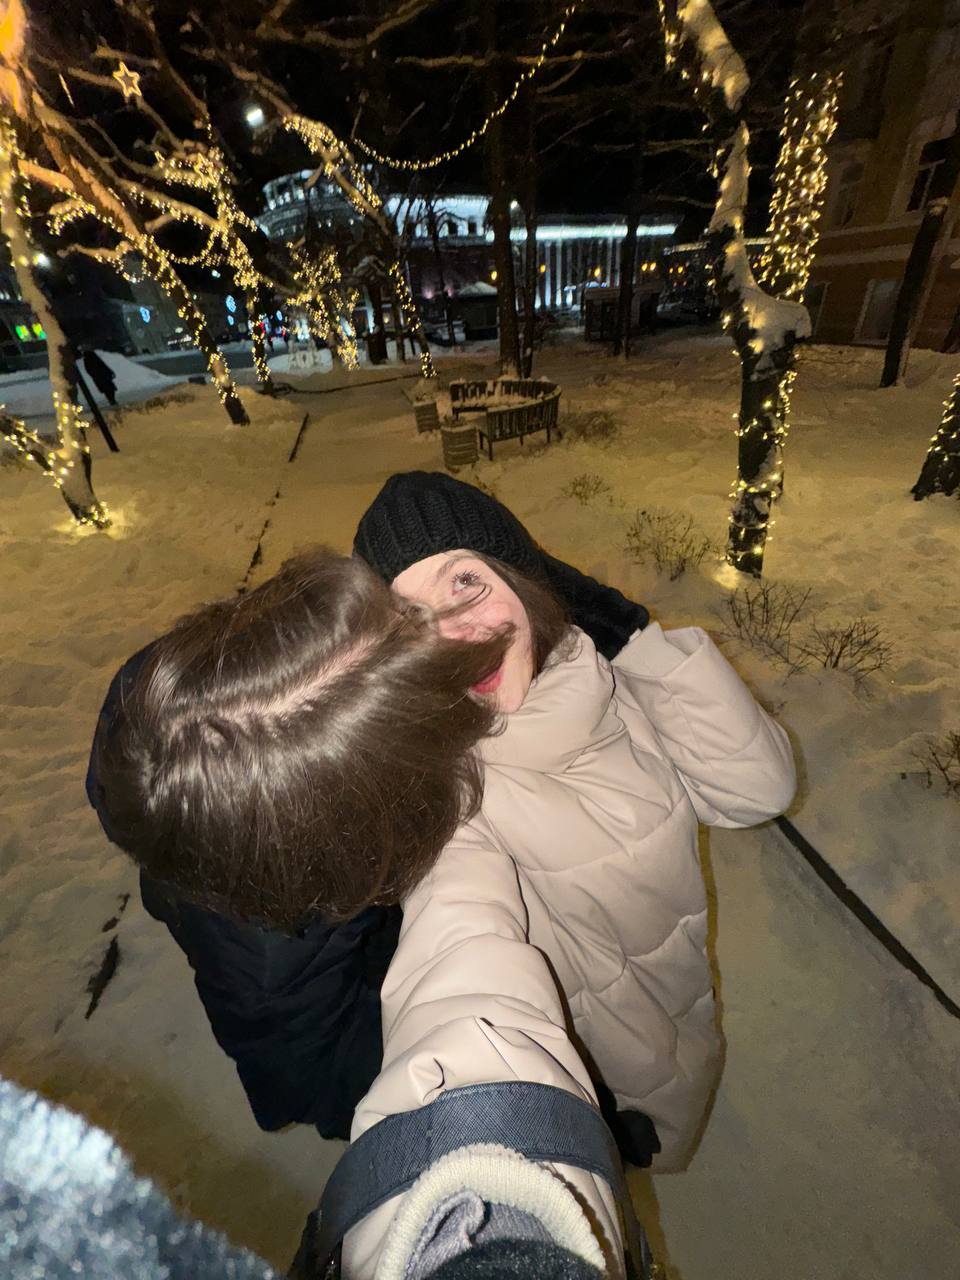
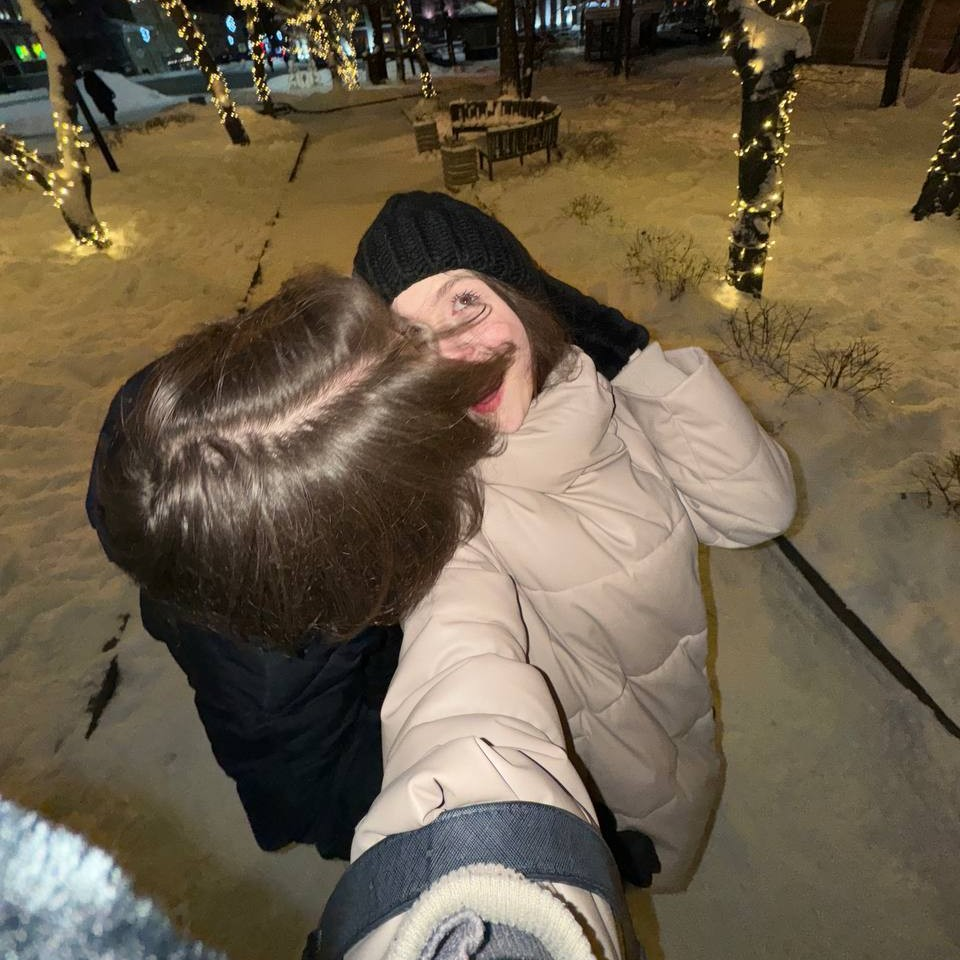
add slight transition to the timeline, edit photo formats

diff --git a/styles.css b/styles.css
@@ -664,3 +664,44 @@ body {
     margin-top: 40px;
     text-align: center;
 }
+
+.scroll-prompt {
+    text-align: center;
+    margin: 50px 0;
+    opacity: 0;
+    transform: translateY(20px);
+    transition: all 0.5s ease-out;
+}
+
+.scroll-prompt.visible {
+    opacity: 1;
+    transform: translateY(0);
+}
+
+.arrow-down {
+    width: 30px;
+    height: 30px;
+    margin: 0 auto;
+    border: 2px solid #e74c3c;
+    border-width: 0 2px 2px 0;
+    rotate: 45deg;
+    animation: bounce 2s infinite;
+}
+
+@keyframes bounce {
+    0%, 100% { transform: translateX(0) translateY(0); }
+    50% { transform: translateX(-10px) translateY(-10px); }
+}
+
+.quote-block {
+    text-align: center;
+    margin: 80px 20px 0;
+    position: relative;
+}
+
+.timeline-divider {
+    width: 70%;
+    height: 2px;
+    background: linear-gradient(90deg, transparent, #ff6b6b 50%, transparent);
+    margin: 55px auto;
+}

diff --git a/index.html b/index.html
@@ -98,6 +98,20 @@
     <p class="graph-caption montserrat-alternates-medium">Наша любовь с каждым днём становится только сильнее!</p>
 </div>
 
+
+<!--Плавный переход к таймлайну-->
+<div class="quote-block fade-in-animation">
+    <div class="timeline-divider"></div>
+    <p class="montserrat-alternates-medium">
+        За этими цифрами скрывается столько теплых моментов...<br>
+        Давай вспомним самые важные из них вместе!
+    </p>
+</div>
+
+<div class="scroll-prompt fade-in-animation">
+    <div class="arrow-down"></div>
+</div>
+
 <div class="container">
     <!-- Временная линия -->
     <div class="timeline" id="timeline">
